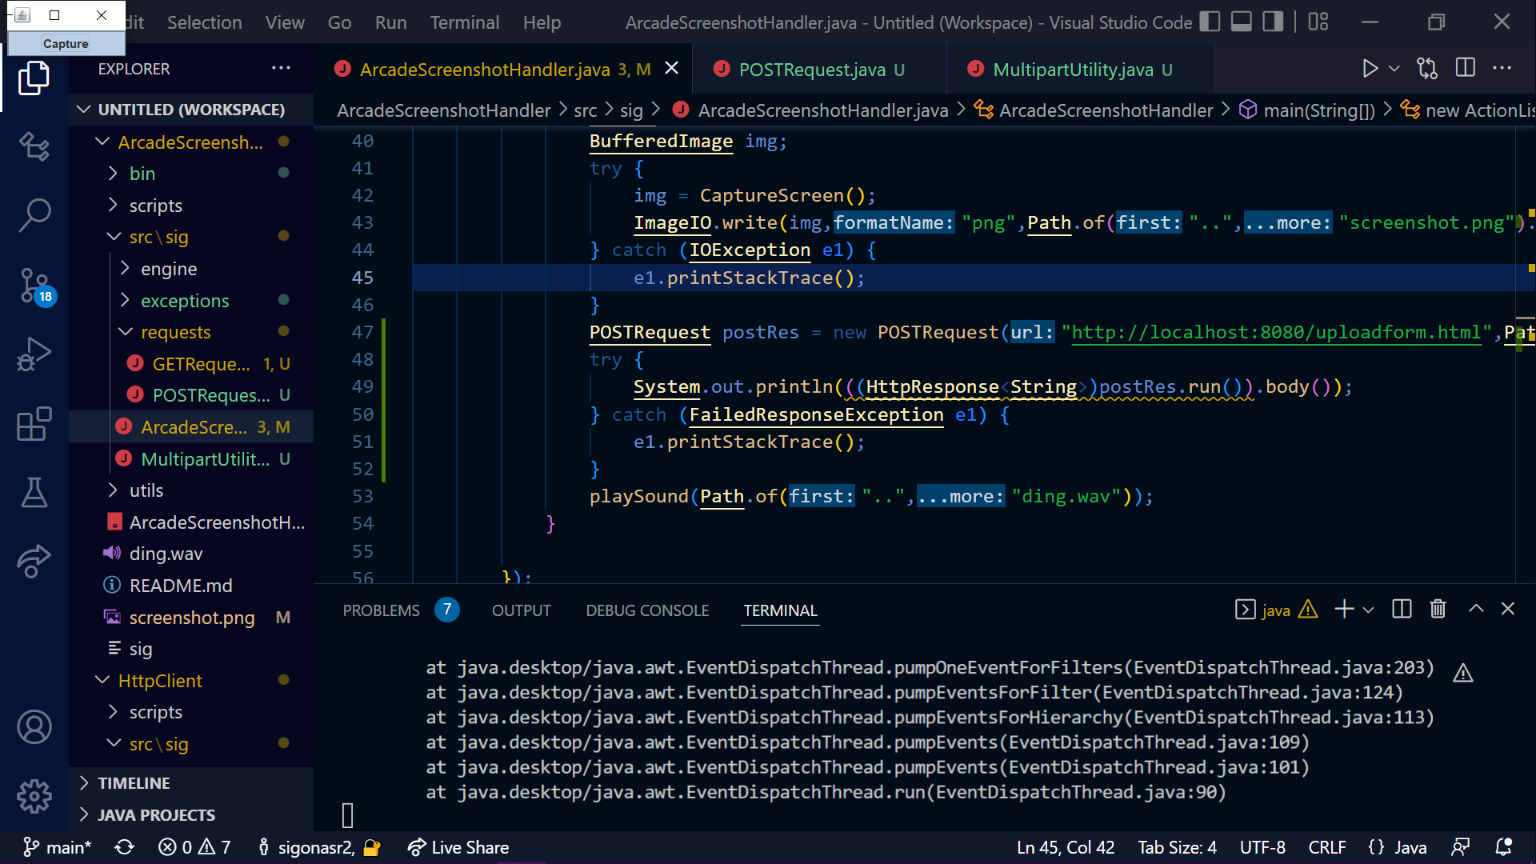
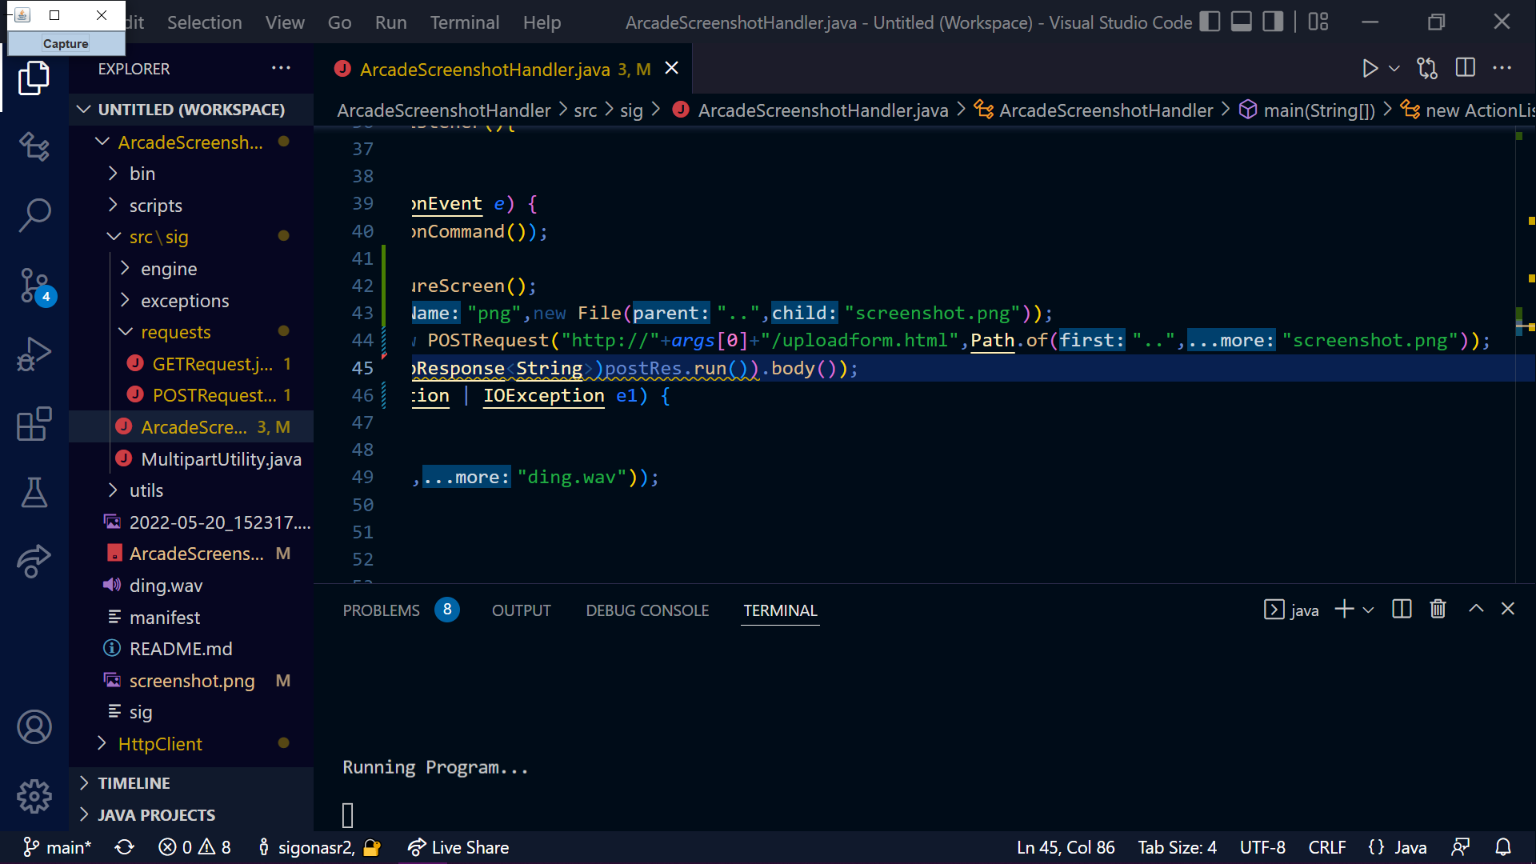
Co-authored-by: sigonasr2 <sigonasr2@gmail.com>

diff --git a/src/sig/ArcadeScreenshotHandler.java b/src/sig/ArcadeScreenshotHandler.java
@@ -1,5 +1,6 @@
 package sig;
 
+import java.io.File;
 import java.io.IOException;
 import java.nio.file.Path;
 import java.awt.image.BufferedImage;
@@ -37,10 +38,12 @@ public class ArcadeScreenshotHandler {
 			@Override
 			public void actionPerformed(ActionEvent e) {
 				System.out.println(e.getActionCommand());
-				POSTRequest postRes = new POSTRequest("http://"+args[0]+"/uploadform.html",Path.of("..","screenshot.png"));
             	try {
+					BufferedImage img = CaptureScreen();
+					ImageIO.write(img,"png",new File("..","screenshot.png"));
+					POSTRequest postRes = new POSTRequest("http://"+args[0]+"/uploadform.html",Path.of("..","screenshot.png"));
 					System.out.println(((HttpResponse<String>)postRes.run()).body());
-				} catch (FailedResponseException e1) {
+				} catch (FailedResponseException | IOException e1) {
 					e1.printStackTrace();
 				}
 				playSound(Path.of("..","ding.wav"));
